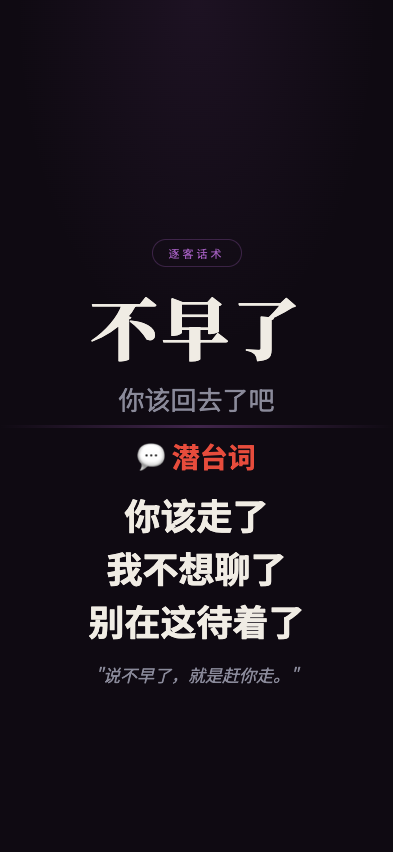
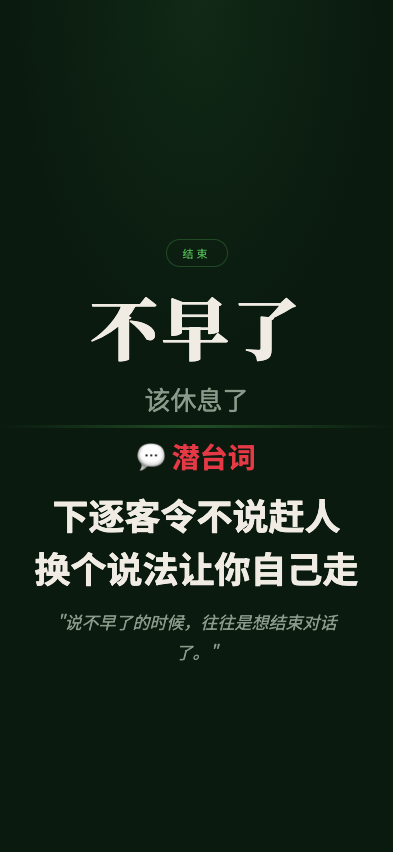
feat: 职场生存法则 screenshot - buzaole

Changed region(s): [[0.0916, 0.5798, 0.916, 0.8239], [0.1832, 0.4577, 0.8244, 0.5188], [0.3969, 0.2746, 0.5802, 0.3357]]

diff --git a/wuliao-tools/tools/biz-speak/scenes/buzaole.html b/wuliao-tools/tools/biz-speak/scenes/buzaole.html
@@ -7,11 +7,11 @@
 <link href="https://fonts.googleapis.com/css2?family=Noto+Serif+SC:wght@400;700;900&family=Noto+Sans+SC:wght@300;400;700&display=swap" rel="stylesheet">
 <style>
   :root {
-    --bg: #0f0a12;
+    --bg: #0a1a0f;
     --text: #f0ece4;
-    --text-dim: #8a8a9a;
-    --gold: #9b59b6;
-    --red: #e74c3c;
+    --text-dim: #8a9a8a;
+    --gold: #4caf50;
+    --red: #e63946;
   }
   * { margin:0; padding:0; box-sizing:border-box; }
   html, body { width:100%; height:100%; overflow:hidden; }
@@ -24,11 +24,11 @@
   }
   body::before {
     content:''; position:absolute; top:0; left:0; right:0; height:45%;
-    background:radial-gradient(ellipse at 50% 0%, rgba(155,89,182,0.1) 0%, transparent 65%);
+    background:radial-gradient(ellipse at 50% 0%, rgba(76,175,80,0.1) 0%, transparent 65%);
     pointer-events:none; z-index:0;
   }
   .top { flex:1; display:flex; flex-direction:column; align-items:center; justify-content:flex-end; padding:4px 28px 8px; position:relative; z-index:1; }
-  .tag { font-size:11px; letter-spacing:3px; color:var(--gold); border:1px solid rgba(155,89,182,0.3); padding:5px 16px; border-radius:50px; margin-bottom:20px; }
+  .tag { font-size:11px; letter-spacing:3px; color:var(--gold); border:1px solid rgba(76,175,80,0.3); padding:5px 16px; border-radius:50px; margin-bottom:20px; }
   .main-title { font-family:'Noto Serif SC'; font-size:68px; font-weight:900; text-align:center; line-height:1.15; letter-spacing:3px; min-width:0; overflow-wrap:break-word; max-width:92%; }
   .sub-title { font-size:26px; color:var(--text-dim); text-align:center; margin-top:14px; }
   .divider { width:100%; height:3px; background:linear-gradient(90deg,transparent,var(--gold),transparent); opacity:0.35; flex-shrink:0; position:relative; z-index:1; }
@@ -41,19 +41,18 @@
 </head>
 <body>
   <div class="top">
-    <div class="tag">逐客话术</div>
+    <div class="tag">结束</div>
     <div class="main-title">不早了</div>
-    <div class="sub-title">你该回去了吧</div>
+    <div class="sub-title">该休息了</div>
   </div>
   <div class="divider"></div>
   <div class="bottom">
     <div class="truth-label">💬 潜台词</div>
     <div class="truth-lines">
-      <div class="truth-line">你该走了</div>
-      <div class="truth-line">我不想聊了</div>
-      <div class="truth-line">别在这待着了</div>
+      <div class="truth-line">下逐客令不说赶人</div>
+      <div class="truth-line">换个说法让你自己走</div>
     </div>
-    <div class="quote">"说不早了，就是赶你走。"</div>
+    <div class="quote">"说不早了的时候，往往是想结束对话了。"</div>
   </div>
 </body>
 </html>
